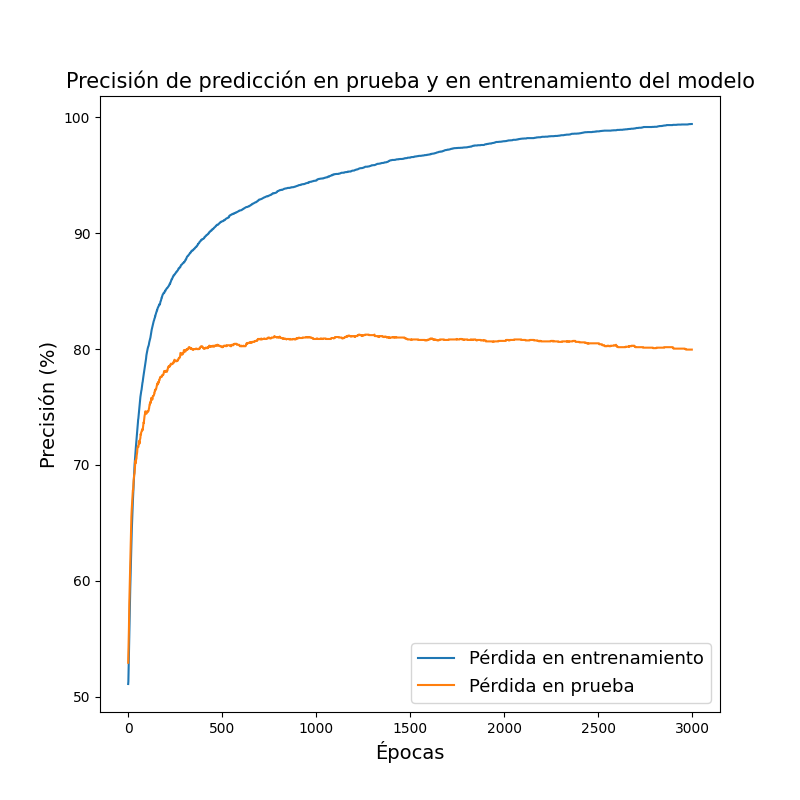
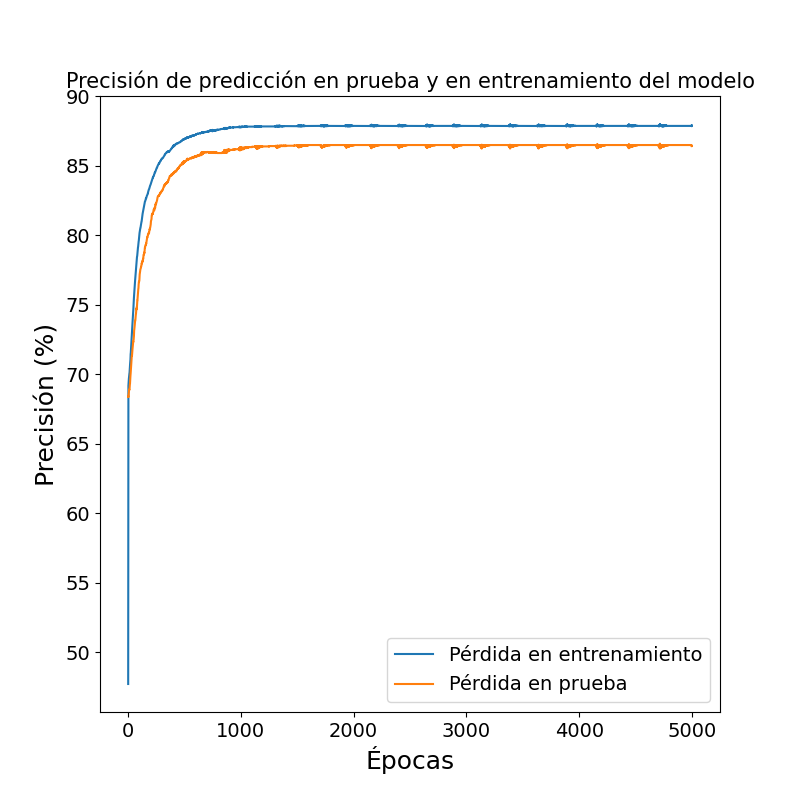
Modificaciones antes de Poster Proyecto teórico

diff --git a/LogisticRegression.py b/LogisticRegression.py
@@ -4,7 +4,7 @@ from sklearn.model_selection import train_test_split
 import pandas as pd
 import numpy as np
 import matplotlib.pyplot as plt
-
+#from scipy.ndimage import gaussian_filter1d
 device = "cuda" if torch.cuda.is_available() else "cpu"
 #print(device)
 
@@ -12,7 +12,7 @@ n_spins = 10
 J = 1.
 tau = 500
 T = 30
-N = 12000
+N = 20000
 
 df_spins = pd.read_csv("Trajectories_{}_tau_{}_nspins_{}_T_{}_J_{}.csv".format(N,tau,n_spins,T,J))
 array = df_spins.values
@@ -22,11 +22,13 @@ print(trajectories.shape) #12000 100 10
 
 df_labels = pd.read_csv("Works_labels_{}_tau_{}_nspins_{}_T_{}_J_{}.csv".format(N,tau,n_spins,T,J))
 y = df_labels["Label"].values
+works_train = df_labels["Works"].values
 
 X = torch.from_numpy(trajectories).type(torch.float).view(N, tau*n_spins)
 y = torch.from_numpy(y).type(torch.float)
 
 X_train, X_test, y_train, y_test = train_test_split(X, y,test_size=0.2,random_state=42)
+X = X.to(device)
 
 X_train = X_train.to(device)
 y_train = y_train.to(device)
@@ -41,16 +43,21 @@ def accuracy_fn(y_true, y_pred):
 class LogisticRegression(nn.Module):
     def __init__(self,input_Dim):
         super().__init__()
-        self.layer_1 = nn.Linear(in_features=input_Dim,out_features=1)
+        self.input_Dim = input_Dim
+        self.layer_linear= nn.Linear(in_features=input_Dim,out_features=1)
+        self.layer_norm = nn.LayerNorm(self.input_Dim)
         
     def forward(self, x):
-        return self.layer_1(x)
+        #x=self.layer_norm(x)
+        x = self.layer_linear(x)
+        x = x / (self.input_Dim*0.03)
+        return x
 
 model = LogisticRegression(tau*n_spins).to(device)
 loss_fn = nn.BCEWithLogitsLoss()
-optimizer = torch.optim.Adam(params=model.parameters(), lr=0.0001, weight_decay=0.0001)
-#Un vector lineal
-epochs = 3000
+optimizer = torch.optim.Adam(params=model.parameters(), lr=0.01, weight_decay=0.0001)
+
+epochs = 5000
 epoch_list = np.zeros(epochs)
 train_losses = np.zeros(epochs)
 train_accs = np.zeros(epochs)
@@ -60,8 +67,13 @@ torch.manual_seed(42)
 torch.cuda.manual_seed(42)
 
 for epoch in range(epochs):
+    
     model.train()
-    y_logits = model(X_train).squeeze() #Forward pass
+    
+    #y_logits = model(X_train) #Forward pass
+    #print(y_logits.shape)
+    y_logits = model(X_train).squeeze()
+    #print(y_logits.shape)
     y_pred = torch.round(torch.sigmoid(y_logits))
     loss = loss_fn(y_logits,y_train) #Loss calculation
     acc = accuracy_fn(y_true=y_train,y_pred=y_pred)
@@ -71,17 +83,17 @@ for epoch in range(epochs):
     model.eval()
     
     with torch.inference_mode():
-        test_logits = model(X_test).squeeze()
-        test_pred = torch.round(torch.sigmoid(test_logits))
+            test_logits = model(X_test).squeeze()
+            test_pred = torch.round(torch.sigmoid(test_logits))
         
-        test_loss = loss_fn(test_logits, y_test)
-        test_losses[epoch] = test_loss
-        test_acc = accuracy_fn(y_true=y_test,y_pred=test_pred)
-        test_accs[epoch] = test_acc
-        
+            test_loss = loss_fn(test_logits, y_test)
+            test_losses[epoch] = test_loss
+            test_acc = accuracy_fn(y_true=y_test,y_pred=test_pred)
+            test_accs[epoch] = test_acc
+            
     epoch_list[epoch] = epoch
     train_losses[epoch] = loss
-    train_accs[epoch] = acc
+    train_accs[epoch] = acc    
         
     if epoch%100 == 0:
         print(f"Epoch: {epoch} | Loss: {loss:.5f}, Acc: {acc:.2f}% | Test loss: {test_loss:.5f}, Test acc: {test_acc:.2f}%")
@@ -90,10 +102,12 @@ for epoch in range(epochs):
 plt.figure(figsize=(8,8))
 plt.plot(epoch_list,train_accs,label="Pérdida en entrenamiento")
 plt.plot(epoch_list,test_accs,label="Pérdida en prueba")
-plt.xlabel("Épocas",fontsize=14)
-plt.ylabel("Precisión (%)",fontsize=14)
+plt.xlabel("Épocas",fontsize=18)
+plt.ylabel("Precisión (%)",fontsize=18)
 plt.title("Precisión de predicción en prueba y en entrenamiento del modelo".format(0.005),fontsize=15)
-plt.legend(fontsize=13)
+plt.xticks(fontsize=14)
+plt.yticks(fontsize=14)
+plt.legend(fontsize=14)
 plt.savefig("Precision_Modelo.png")
        
 P = 1000
@@ -112,28 +126,35 @@ model.eval()
 
 with torch.inference_mode():
     test_logits = model(X_pruebas).squeeze()
-    testing = torch.sigmoid(test_logits)
-    y_preds = torch.round(testing)
+    y_preds = torch.round(torch.sigmoid(test_logits))
     
 print("Model accuracy: {}%".format(accuracy_fn(y_pruebas,y_preds.squeeze())))
-
-#testing = test_logits.cpu().numpy()    
-testing = testing.cpu().numpy()
-beta = 1
+  
+beta = 1/T
 
 def theory(x):
     sigmoide = 1+np.exp(-beta*(x))
     return 1/sigmoide
 
+model.eval()
+with torch.inference_mode():
+    #test_logits = model(X_pruebas).squeeze()
+    #testing = torch.sigmoid(test_logits)
+    test_logits = model(X_pruebas).squeeze()
+    testing = torch.sigmoid(test_logits)
+    
+testing = testing.cpu().numpy()
+
+#testing = gaussian_filter1d(testing, sigma=1)
 x = np.linspace(np.min(works),np.max(works),1000)
-print(testing[:10])
 #Plotting the distribution
 plt.figure(figsize=(8,8))
 plt.title("$P(F|x)$ para la flecha del tiempo termodinámica",fontsize=15)
-plt.scatter(works*beta,testing,label="Predicciones del modelo",alpha = 0.35,color="lightskyblue")
+plt.scatter(works,testing,label="Predicciones del modelo",alpha = 0.35,color="lightskyblue")
 plt.plot(x,theory(x),label="Predicciones teóricas",linewidth=3,color="darkblue")
-plt.xlabel(r"$\beta W$",fontsize=14)
+plt.xlabel(r"$W$",fontsize=14)
 plt.ylabel("$P(F|x)$",fontsize=14)
-plt.xlim((-10,10))
+#plt.xlim((-10,10))
 plt.legend(fontsize=12)
 plt.savefig("distProb_betaGammaK1_u05_h001_t10.png")
+plt.show()

diff --git a/Graphics_work.py b/Graphics_work.py
@@ -5,7 +5,7 @@ import numpy as np
 n_spins = 10 
 J = 1.
 tau = 500
-T = 10
+T = 30
 N = 12000
 
 data = pd.read_csv("Works_labels_{}_tau_{}_nspins_{}_T_{}_J_{}.csv".format(N,tau,n_spins,T,J))
@@ -21,10 +21,10 @@ plt.hist(work_forward, bins=30, density=True, alpha = 0.6, color='red', label="F
 plt.hist(work_backward, bins=30, density=True, alpha = 0.4, color='blue', label="Backward")
 plt.axvline(mean_forward, color='red', linestyle='-', linewidth=1.5, label=r'$\langle \beta W \rangle_F$ = {:.2f}'.format(mean_forward))
 plt.axvline(mean_backward, color='blue', linestyle='-', linewidth=1.5, label=r'$\langle \beta W \rangle_B$ = {:.2f}'.format(mean_backward))
-plt.xticks(fontsize=12)
-plt.yticks(fontsize=12)
-plt.xlabel(r"$W$", fontsize=18)
-plt.ylabel(r"$\rho(W)$", fontsize=18)
+plt.xticks(fontsize=13)
+plt.yticks(fontsize=13)
+plt.xlabel(r"$W$", fontsize=20)
+plt.ylabel(r"$\rho(W)$", fontsize=20)
 plt.legend(fontsize=18)
 plt.tight_layout()
 plt.show()

diff --git a/Trajectories.py b/Trajectories.py
@@ -14,7 +14,7 @@ n_spins = 10
 J = 1.
 B0 = 20.
 tau = 500
-T = 30
+T = 10
 
 def B(B0,t,tau):
     return B0 * np.cos((np.pi * t / tau)) 
@@ -112,4 +112,4 @@ def Data(N, n_spins, B0, tau, J, T):
     print("Generated {} trajectories in {:.2f} seconds.".format(N,end-start))      
 
 # Run data generation
-Data(1000,n_spins, B0, tau, J, T)
+Data(20000,n_spins, B0, tau, J, T)

diff --git a/Graphics.py b/Graphics.py
@@ -5,8 +5,8 @@ import matplotlib.pyplot as plt
 n_spins = 10 
 J = 1.
 tau = 500
-T = 10
-N = 12000
+T = 30
+N = 20000
 
 data = pd.read_csv("Trajectories_{}_tau_{}_nspins_{}_T_{}_J_{}.csv".format(N,tau,n_spins,T,J))
 
